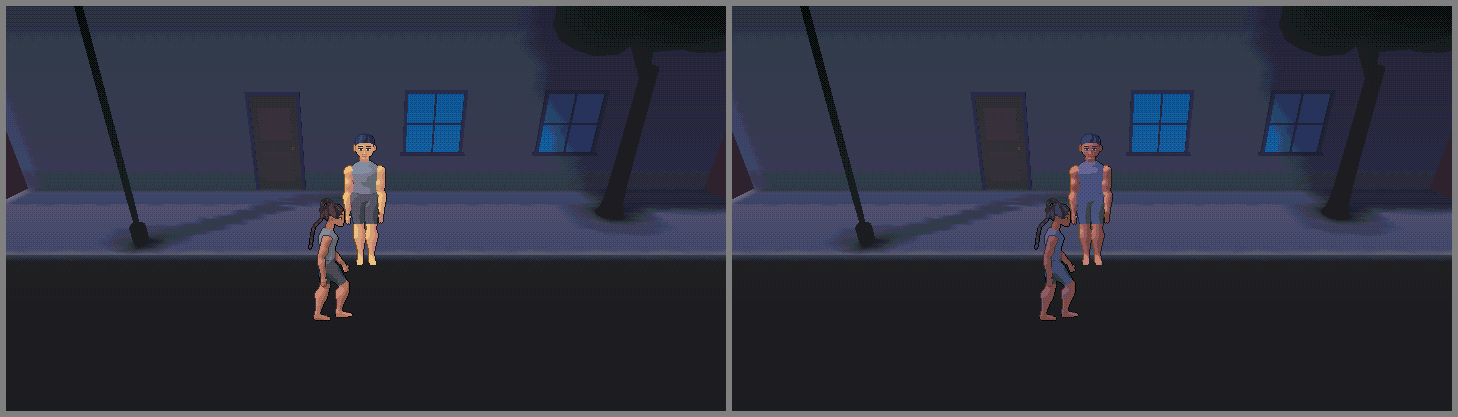
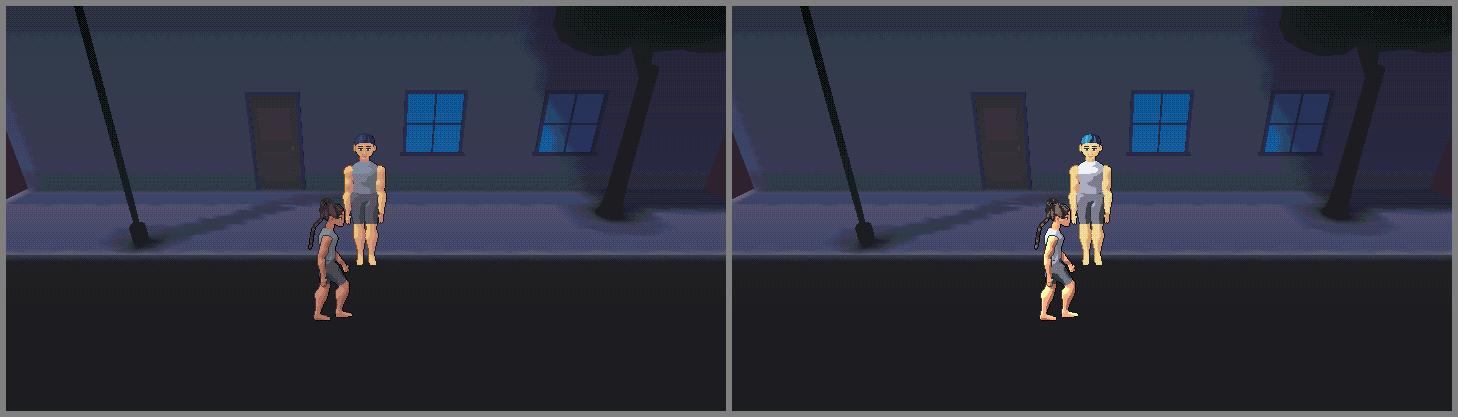
feat(character-kit): by day the sun lights a painted figure's flat light, not only its form
At the lighting checkpoint the coordinator passed the interior and asked for the exterior to be fixed: the flat light was `tint` alone, which holds no sun, so
by day a figure stood three steps down and blue. The sun's level x colour is added to the flat light, and (by its slope on a floor) to the ring of ground the
exposure compares with, so a figure is within `hot` steps of the sunlit ground and never past it. A unit test (sun on and off, and a low sun), the exterior
pictures re-shot on WebGL and WebGPU (flat +2 steps), the README and measurements.json updated. The bench's medians are accepted and its worst frames recorded
as a known risk in the spec and progress, with what would fix them.

Claude-Session: https://claude.ai/code/session_01HNdX7J3GBcFSnhHdphG7yN

Changed region(s): [[0.7099, 0.3118, 0.7716, 0.7794]]

diff --git a/extensions/character-kit/src/features/painted/room-light.ts b/extensions/character-kit/src/features/painted/room-light.ts
@@ -80,14 +80,26 @@ function lamp(
  * - The flat light is `tint` at the chest with no normal.
  * - The lean on each axis is the peak channel of `tint` facing +axis less facing −axis; the three leans are one resultant, one
  *   lamp (two equal lamps either side cancel, and the figure is lit flat, which is right). Under `floor` there is none.
- * - The sun, which `tint` does not hold, is one more lamp. It is not occluded (the occluder test is not public), so a
- *   figure in shade by day still takes the sun's form; the fill has no direction and is left out.
+ * - The sun, which `tint` does not hold, is one more lamp, and its level x colour is added to the flat light too (by day the sun lights
+ *   the figure, not only its form). It is added to the ring as the ground takes it (its pull on a floor, `dir.y`), so the figure
+ *   is held within `hot` steps of the sunlit ground and never brighter. It is not occluded (the occluder test is not public),
+ *   so a figure in shade by day still takes the sun; the fill has no direction and is left out.
  * - The ring is `tint` facing up at four points round the feet; the figure's steps are held within `hot` of it.
  */
 export function roomLight(tint: Tint, sun: Sun | undefined, at: V3, azimuth: number): RoomLight {
   const [x, y, z] = at
   const chest = y + ROOM_LIGHT.chest
-  const flat = tint(x, chest, z)
+  // The sun's light as a colour in light units (the level times its colour), 0 when there is none.
+  const sunLight: V3 =
+    sun === undefined
+      ? [0, 0, 0]
+      : [
+          (sun.level * ((sun.color >> 16) & 255)) / 255,
+          (sun.level * ((sun.color >> 8) & 255)) / 255,
+          (sun.level * (sun.color & 255)) / 255,
+        ]
+  const ground = tint(x, chest, z)
+  const flat: V3 = [ground[0] + sunLight[0], ground[1] + sunLight[1], ground[2] + sunLight[2]]
   const lean = (axis: 0 | 1 | 2): number => {
     const plus: [number, number, number] = [0, 0, 0]
     const minus: [number, number, number] = [0, 0, 0]
@@ -114,8 +126,12 @@ export function roomLight(tint: Tint, sun: Sun | undefined, at: V3, azimuth: num
   const r = ROOM_LIGHT.ring
   const up: readonly [number, number, number] = [0, 1, 0]
   const around = [tint(x + r, y, z, up), tint(x - r, y, z, up), tint(x, y, z + r, up), tint(x, y, z - r, up)]
-  const ring: V3 = [0, 1, 2].map((c) => around.reduce((sum, v) => sum + (v[c] ?? 0), 0) / around.length) as V3
-  const steps = flatSteps([flat[0], flat[1], flat[2]])
+  // The ground takes the sun by its slope: `dir.y` over the length of the sun's direction (a floor's N·L).
+  const pull = sun === undefined ? 0 : Math.max(0, sun.dir[1]) / (Math.hypot(...sun.dir) || 1)
+  const ring: V3 = [0, 1, 2].map(
+    (c) => around.reduce((sum, v) => sum + (v[c] ?? 0), 0) / around.length + sunLight[c as 0 | 1 | 2] * pull,
+  ) as V3
+  const steps = flatSteps(flat)
   const exposure = Math.max(0, steps - flatSteps(ring) - ROOM_LIGHT.hot)
   // The light the sprite is lit with is rebuilt from the quantised values only (steps taken off already, colour in sixteenths),
   // so the key decides the bytes.

diff --git a/extensions/character-kit/tests/unit/painted/room-light.test.ts b/extensions/character-kit/tests/unit/painted/room-light.test.ts
@@ -107,6 +107,21 @@ describe('roomLight', () => {
     expect(roomLight(grey(1), { ...sun, level: 0.01 }, FEET, 0).lighting.lamps).toEqual([])
   })
 
+  it('by day the sun lights the figure’s flat too, and not past the ground beside it', () => {
+    // A dim ambient room (0.3) and a high white sun: the flat light with the sun is well over the flat light without.
+    const sun: Sun = { dir: [0.3, 0.9, 0.3], color: 0xffffff, level: 1 }
+    const without = roomLight(grey(0.3), undefined, FEET, 0)
+    const withSun = roomLight(grey(0.3), sun, FEET, 0)
+    expect(stepsOf(without.key)).toBe(-3)
+    expect(stepsOf(withSun.key)).toBeGreaterThanOrEqual(0)
+    // The ground takes the sun by its slope, so the figure sits within a step of it: the sunlit floor's light is 0.3 + dir.y of the sun.
+    const ground = 0.3 + (0.9 / Math.hypot(0.3, 0.9, 0.3)) * 1
+    expect(stepsOf(withSun.key)).toBeLessThanOrEqual(flatSteps([ground, ground, ground]) + 1)
+    // A low sun lights the ground little: the figure is held to it, never brighter than the ground beside it by more than a step.
+    const low = roomLight(grey(0.3), { ...sun, dir: [1, 0.05, 0] }, FEET, 0)
+    expect(stepsOf(low.key)).toBeLessThanOrEqual(flatSteps([0.3, 0.3, 0.3]) + 1)
+  })
+
   it('one key, one picture', () => {
     const figure = new Figure(member(woman, 2))
     for (let i = 0; i < 3; i++)

diff --git a/docs/refactor/progress.md b/docs/refactor/progress.md
@@ -759,8 +759,8 @@ does not merge.
 | 8. Spec and plan for cycle c8-lit | Done, 2026-11-11 (no subagents), approved ahead by the Owner ("auto approve spec and plans", relayed by the coordinator): painted figures lit by the room (FigureBuilder gains `lightSprite`: whole DUEL steps on the painted cell, on the CPU, cached; AF reads the room through `SceneLight.tint` and edits nothing in `packages/3d`), per-texel depth under WebGPU (a WGSL fragment depth in FigureBuilder, on AF #602), and an arch-stable painter. FigureBuilder tasks first (F1 to F5, one pull request to its `main`), then the pin and eight AF tasks; the coordinator's checkpoint is after the lighting gate pictures. **The arm64 flip is found**: nudging `Math.sin` and `Math.cos` by one unit in the last place on x64 paints the Macs' md5 of `nia/thin/0` exactly (`259c7a37…`, 16 of 40 seeds), and the trace ends in `rasterize`'s depth test (`src/features/paint/raster.ts`): two faces of one part at one depth, the winner decided by rounding; the tone cut, the cast shadow, the crevice and the smoothing's depth test were measured far from their thresholds. Also measured: `lightFigure` for eight D2 figures uncached 9.18 ms a frame, `cellOf` 1.54 ms, a DUEL step ×1.17 in the peak sRGB channel. Read: AF `main` `5d7f40d3`, FigureBuilder `d6e3c9f`, EnvironmentBuilder `f7c5356`, `@pixi/3d` 0.1.0-beta.2 (its WGSL fragment entries return a bare colour, so the depth needs a template of its own). Ran: `pnpm install`, scratch unit tests in the kit (deleted), the docs style check. Not run: `pnpm check`, any browser suite. Not verified: that `@pixi/3d` takes a custom template on the flat material; that FigureBuilder's four goldens hold under the tie rule. Nothing built | [spec](2026-11-11-c8-lit-spec.md), [plan](2026-11-11-c8-lit-plan.md) |
 | 8a. Plan audit | Done, 2026-11-11 (no subagents), on `claude/c8-lit-spec` at `775f25de`: 4 blocking, 10 should-fix, 9 nice-to-have, all fixed in the plan; the spec corrected where wrong (sections 1, 3, 4b, 5a, 5b, 7, 9, 11, each marked). **B1: row 8's cause was wrong.** The positions and depths are bit-identical between the plain and the flipping run, and the planned raster rule, applied, changes nothing (still 15 of 40 seeds give `259c7a37…`); 190 vertex normals are negated at hair-grid poles (`grid()` in FB `hair.ts`), whose outward offset is 0 to 1e-9 m. A pole rule (the next row's outward direction) paints the Macs' md5 on x64 (40 of 40 seeds agree), moves 42 of 112 runway cells, leaves 0 unstable (5 are today). B2: it also moves base-f's cells in FB's four goldens and an identity md5 (10 FB tests fail; a second rule, 4), so Task F1 now stops for the coordinator's ruling before one named re-record. B3: `SceneLight.tint` has no sun and no fill, so the sun comes from `SceneLight.lighting.sun`. B4: Task A2's acceptance rule and count. Should-fix: the lit cache's stale cells and a key that did not decide the bytes; the bench (the increment, three scenarios, `AF_BENCH=1`); a pixel spike for the WGSL template (the seam is `getPrimaryDescriptor().template`; the GPU shader cache ignores the template); #602 by ancestry; the Macs' arch; one push per CI round; slow nudge tests cut; `hookTimeout` already set; F2's file names. Ran: `pnpm install`, FB's `vitest run` four times (536 of 536 as is), scratch scripts under `tsx`, `pnpm format`. Not verified: arm64 itself, anything under WebGPU, `lightSprite`'s cost (it does not exist; `lightFigure` measured 6.0 ms median, 13.8 ms worst for eight), the browser suites, `pnpm check` | [audit](2026-11-11-c8-lit-plan-audit.md) |
 | 9. FigureBuilder part (F1 to F5), execution | Done, 2026-11-11 (no subagents), FigureBuilder `claude/c8-lit-fb` at `7797d4a` (draft PR to its `main`, opened at the end): **F1** the hair-grid pole rule (`grid()`; the ears share it), the coordinator ruled ACCEPT on the audit (`docs/superpowers/audits/c8-hair-poles/` in FigureBuilder: 104 cells, 951 texels, 933 hair, 16 beside it, 2 ear; base-f goldens, the identity md5 `ad1b4c83…` to `62d1f234…`, and 2 base-m lit cells re-recorded in one named commit). **F2** `lightSprite`/`flatSteps`/`SPRITE_STYLE` (the rim is the first texel in from the painter's outline, which rule 1 holds: ruling) and the sprite golden. **F3** `StageOptions.sprite`. **F4** WebGPU depth: spike passed; needed depths as bytes in `rgba8unorm` (r32float cannot bind in WebGPU's material layout), a UV snap in the template (the batch sampler is linear) and `rgba8unorm` colour sources (Pixi's `bgra8unorm` default swapped red and blue); `view-check` runs every stage case under both renderers: 0 px. **F5** contract, CLAUDE.md, README. Three perf commits made `lightSprite` 4x faster for the same bytes (the bench found it). FigureBuilder: 561 of 561 tests, `view-check` exit 0 (121 WebGL and 105 WebGPU cases). Not run: Firefox, WebKit for FigureBuilder (its view-check is Chromium). |
-| 10. Kit part (A1 to A6), execution | Done, 2026-11-11 (no subagents), `claude/c8-lit`: #602 was not on `main` (checked by ancestry), so `claude/fix-scene-depth-hazard` is merged in (the pull request stays not ready until it lands); pin at `7797d4a`; the runway golden re-recorded (42 of 112 cells, 281 texels, all hair; `nia/thin/0` is `259c7a37…`, the Macs' md5) and `ARCH_OVERRIDES` deleted, proof by nudging the maths a last bit (the unit test fails on the old pin with the Macs' md5, passes on the new; `test:slow` all 112 cells x 8 seeds passed, 312 s); `room-light.ts` and `lit-cells.ts`, `paintedFigure` lit by the room (`lit: false` keeps it unlit); `painted-lit` browser tests (a lit frame equals `compose`: 0 px; the haze veils a far figure); WebGPU in the painted stage and a `webgpu` browser project (3 cases, 0 px, no warning). Chromium and WebKit `browser` project: 52 passed, 1 skipped each. **The bench misses its budget on this machine**: steady median 1.8 ms (inside), flicker 2.0 (on it), worst frames 6 to 14 ms (over 6); first run 9.0 ms. |
-| 11. Gate pictures (A7) | Sent to the coordinator, 2026-11-11: `docs/refactor/c8/gate-lit/` (interior at `lampLit` and exterior, WebGL and WebGPU, before and after, close-ups, the walker's strip; `measurements.json`). Findings: the interior reads as lit; the exterior figure is murky because the sun is not in the flat light (one line in `room-light.ts`, not made). Waiting on the coordinator. |
+| 10. Kit part (A1 to A6), execution | Done, 2026-11-11 (no subagents), `claude/c8-lit`: #602 was not on `main` (checked by ancestry), so `claude/fix-scene-depth-hazard` is merged in (the pull request stays not ready until it lands); pin at `7797d4a`; the runway golden re-recorded (42 of 112 cells, 281 texels, all hair; `nia/thin/0` is `259c7a37…`, the Macs' md5) and `ARCH_OVERRIDES` deleted, proof by nudging the maths a last bit (the unit test fails on the old pin with the Macs' md5, passes on the new; `test:slow` all 112 cells x 8 seeds passed, 312 s); `room-light.ts` and `lit-cells.ts`, `paintedFigure` lit by the room (`lit: false` keeps it unlit); `painted-lit` browser tests (a lit frame equals `compose`: 0 px; the haze veils a far figure); WebGPU in the painted stage and a `webgpu` browser project (3 cases, 0 px, no warning). Chromium and WebKit `browser` project: 52 passed, 1 skipped each. **The bench's medians are accepted by the coordinator; its worst frames miss the budget on this machine** (6 to 14 ms against 6; steady 1.8 ms, flicker 2.0 at the median; first run 9.0): a known risk, see row 11. |
+| 11. Gate pictures (A7) | Sent to the coordinator, 2026-11-11: `docs/refactor/c8/gate-lit/` (interior at `lampLit` and exterior, WebGL and WebGPU, before and after, close-ups, the walker's strip; `measurements.json`). Passed by the coordinator with one fix: the sun's level x colour is now in the flat light by day (`room-light.ts`, a unit test with the sun on and off; the exterior pictures re-shot: flat +2 steps, within a step of the ground, no longer 3 steps down and blue). The bench's medians are accepted (steady 1.84, switch 0.31, flicker 2.00 ms). **Known risk, not fixed this cycle (the coordinator's ruling):** the worst frames, 6 to 14 ms on a shared VM against a 6 ms budget, when several figures relight in one frame; if a real device shows them, the fixes are to spread a relight across frames, or to relight only the figures whose light key changed. |
 | CI: stale submodule on the runners | 2026-11-11: the runners keep their work folders, so jobs without the submodule step (parity, e2e-2d, e2e-focused, frame-budget, game-ci, consumer-smoke, release-packages, site, windows-trial) built `vendor/figure-builder` from a newer FigureBuilder left by another job (TS2307 `@pixi/3d`, `pixi.js`). Every job that runs `pnpm install` now runs `.github/scripts/checkout-submodules.sh` first (reset to the pin; with no token, empty it and warn); `game-ci.yml`, `release-checks.yml` and `site.yml` now declare the token and their callers pass it (release-checks and game-ci never received it). `workflow-invariants` holds all three rules, and the script has real-git tests. Ran: those tests, actionlint (only the `af-windows` label is unknown to it). CI on the pull request is the proof | this branch's PR |
 
 ## EnvironmentBuilder's look on @automata/3d (phase 2: baseline and gap, 2026-11-10)

diff --git a/docs/refactor/c8/gate-lit/README.md b/docs/refactor/c8/gate-lit/README.md
@@ -37,9 +37,11 @@ a lower density, lighting every other frame, spreading a relight over frames.
   under the pendant is as bright as he is. He is brighter than the dark green wall behind him, which is the room.
 - **The form is one step and reads as a side**: the man's torso has one lighter band on the pendant's side; the rim is a thin warm edge on his left.
 - **The walker's bands do not swim**: `interior-walk.png`: the cloth's band sits at the same place on the torso in four poses.
-- **The exterior figure** (flat light is the ambient alone, ``-3|9,11,16|-4,6,3;10` (exposure 0)`: three steps down, the sun gives only its form): it goes blue and dark beside the ground
-  the sun lights; the figure reads as in shade, not washed out, but it is murkier than the ground. **A finding for the coordinator**: the sun is not in `SceneLight.tint`, so
-  its warmth never reaches the flat light; adding the sun's level x colour to the flat light would lift it, and is a one-line change in `room-light.ts` (not made).
+- **The exterior figure, by day** (the coordinator's fix: the sun's level x colour is in the flat light as well as in the form): the key is `2|-|-4,6,3;10`: flat light
+  +2 steps (it was three steps down and blue: ambient alone), the sun's direction as the one lamp. The ground it is held to is the room's light on the floor round its
+  feet plus the sun's pull on a floor, and the figure is within a step of it, so the exposure is 0. In the picture the figures are brighter than the street: the street's
+  drawn colour is a dark swatch, so the same light is a dim ground and a bright skin. A sunlit figure on a dim street, not murky; if it reads too bright, the cap is one step
+  off `ROOM_LIGHT.hot` (not changed).
 - **A figure in shade by day** (the exterior has none of its own): not checked; the sun is not occluded for a painted figure (spec section 11).
 - **The eyes** (painted colours of peak 40 or less): FigureBuilder's `sprite.test.ts` prints which are stepped under a bright flat light; in the crops the eyes stay dark.
 - **Against EnvironmentBuilder's frames** (`docs/refactor/eb-look/baseline/`): the exterior's baked room light is as dark there; the interior's figure is not a step brighter than

diff --git a/docs/refactor/2026-11-11-c8-lit-spec.md b/docs/refactor/2026-11-11-c8-lit-spec.md
@@ -368,3 +368,10 @@ The gate is the coordinator's checkpoint, not an Owner stop. The style numbers o
   the coordinator first.
 - **CI**: each push cancels the runs in flight and a conflicted pull request gets none; #592, #593 and #594 are known reds
   and are not this cycle's.
+- **The worst frame of eight lit figures** (*added at execution, 2026-11-11*): the bench's medians are inside section 5c's budget (steady 1.84 ms, switch
+  0.31, flicker 2.00) but its worst frames are 6 to 14 ms on a shared VM, when several figures relight in one frame (a walking figure's painted cell changes every
+  few frames, and a lit cell costs about 0.55 ms). The coordinator accepted it. If a real device shows it: spread a relight across frames, or relight only the figures
+  whose light key changed.
+- **The sun in the flat light** (*changed at the gate*): section 5b left the sun out of the flat light; by day that put the figures three steps down and blue. The sun's
+  level x colour is now added to the flat light, and to the ground the exposure compares with (by its slope), so a figure is within a step of the ground.
+
